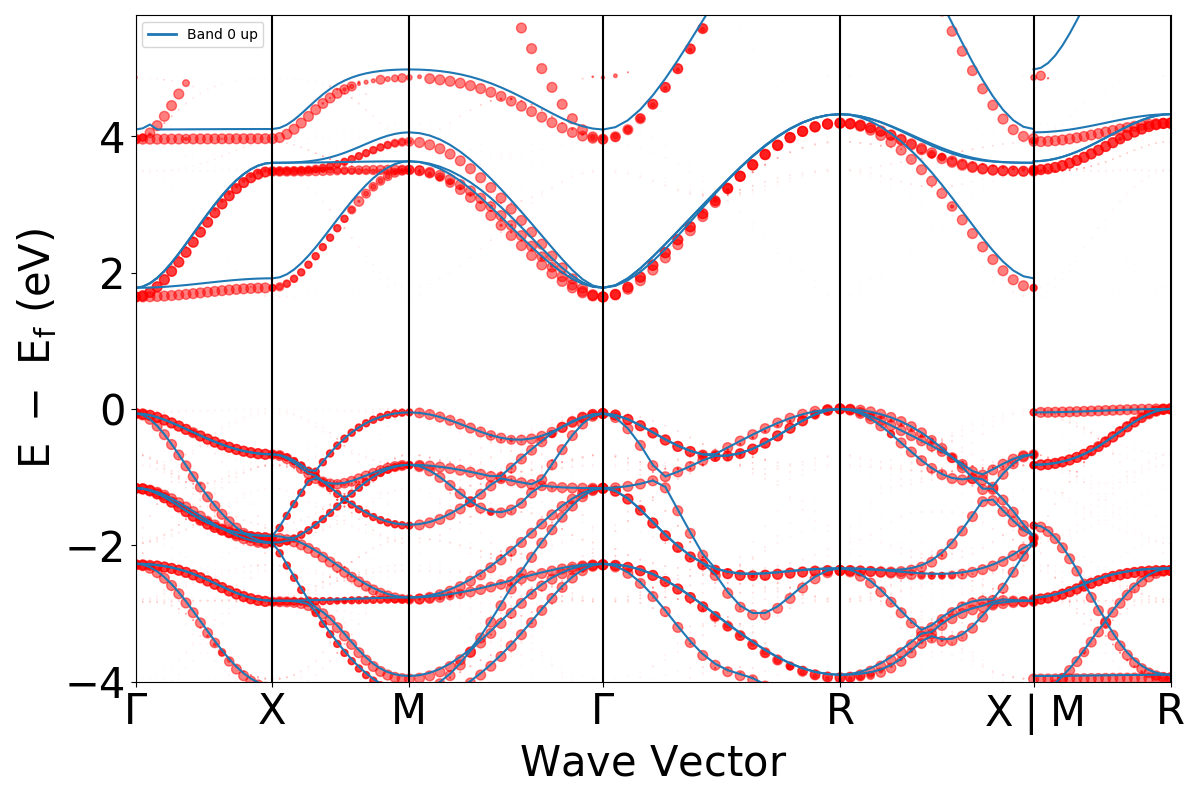
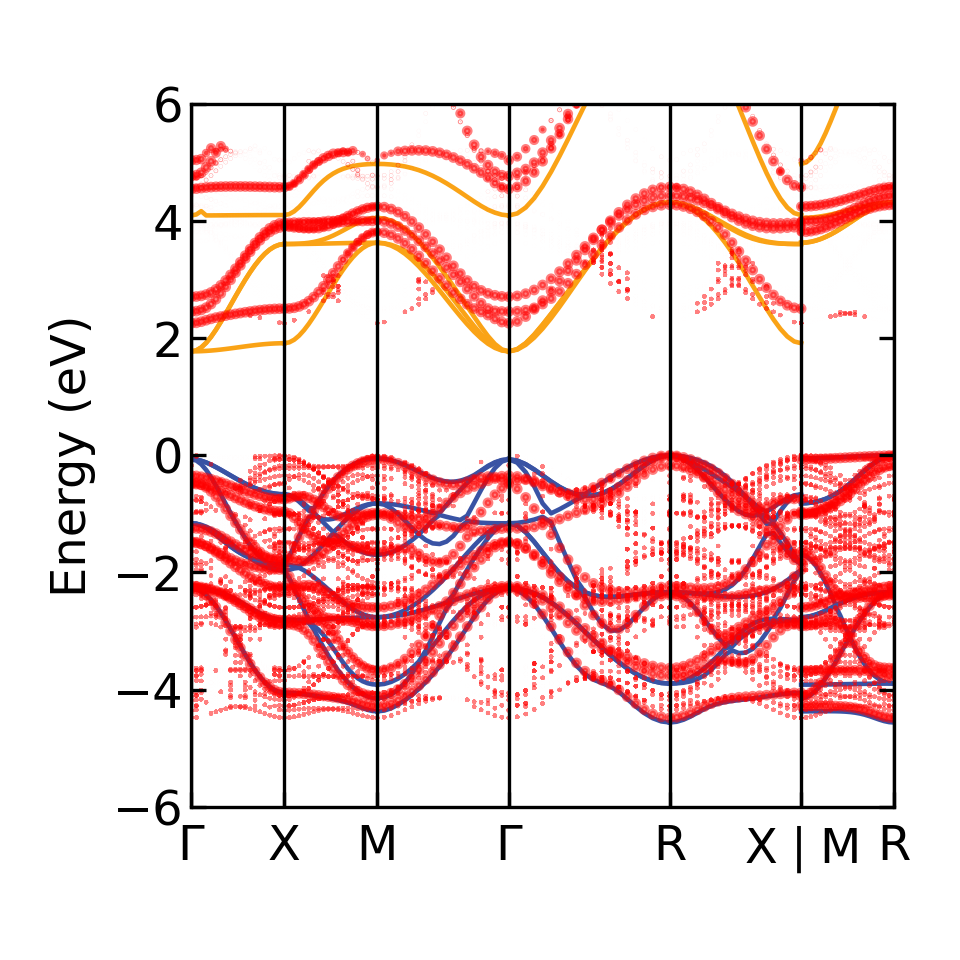
Use sumoplot api for bandstructure

diff --git a/core/phonon/eph/plotter.py b/core/phonon/eph/plotter.py
@@ -1,5 +1,4 @@
-from pymatgen.io.vasp import BSVasprun
-from pymatgen.electronic_structure.plotter import BSPlotter
+from sumo.cli.bandplot import bandplot
 from easyunfold.unfold import UnfoldKSet, Unfold
 import argparse
 import os
@@ -23,12 +22,11 @@ def plot_primitive_and_unfolded_super_cell_band_structrue(
 
     # primitive cell band structure
     __prim_xml = "{}/vasprun.xml".format(primitive_path)
-    vasprun_prim = BSVasprun(__prim_xml, parse_projected_eigen=False)
-    bs_prim = vasprun_prim.get_band_structure(line_mode=True)
 
     # using the pymatgen BSPlotter to plot and save the band structure for the primitive cell
-    plotter = BSPlotter(bs_prim)
-    ax = plotter.get_plot(zero_to_efermi=True, bs_labels=None)
+    import matplotlib.pyplot as plt
+
+    plt = bandplot(filenames=[__prim_xml], plt=plt)
 
     # get the wavefunction for the supercell calculations to find out the VBM/CBM energy,
     # so it can be aligned with the primitive cell band structure (here assume the supercell is
@@ -52,9 +50,9 @@ def plot_primitive_and_unfolded_super_cell_band_structrue(
             y.append(w_for_this_dis[0] - zero_energy)  # only one band for phonon
             w.append(w_for_this_dis[1])  # spectral weight
 
-    plt.scatter(x, y, c="r", s=[weight * 50 for weight in w], alpha=0.5, label="Unfolded Supercell Band Structure")
+    plt.scatter(x, y, c="r", s=[weight * 2.5 for weight in w], alpha=0.5, label="Unfolded Supercell Band Structure")
     plt.tight_layout()
-    plt.savefig(os.getcwd() + "/bandstructure_prim_supercell_unfolded.pdf")
+    plt.savefig(os.getcwd() + "/primitive_band_structure_sc.png", dpi=300)
 
 
 if __name__ == "__main__":

diff --git a/core/phonon/eph/README.md b/core/phonon/eph/README.md
@@ -9,6 +9,7 @@ The EPH package requires:
 - `pymatgen`: Structure manipulation and VASP I/O
 - `numpy`, `scipy`: Scientific computing
 - `easyunfold`: For mapping the electronic band structure from supercell calculation back to the primitive cell
+- `sumo`: For plotting electronic and phonon bandstructures/DOS
 
 ## Overview
 
@@ -149,3 +150,4 @@ An example of such plot is shown below:
 - Phonopy documentation: https://phonopy.github.io/
 - PyMatGen: https://pymatgen.org/
 - easyunfold: https://github.com/SMTG-Bham/easyunfold
+- sumo: https://smtg-bham.github.io/sumo/index.html
